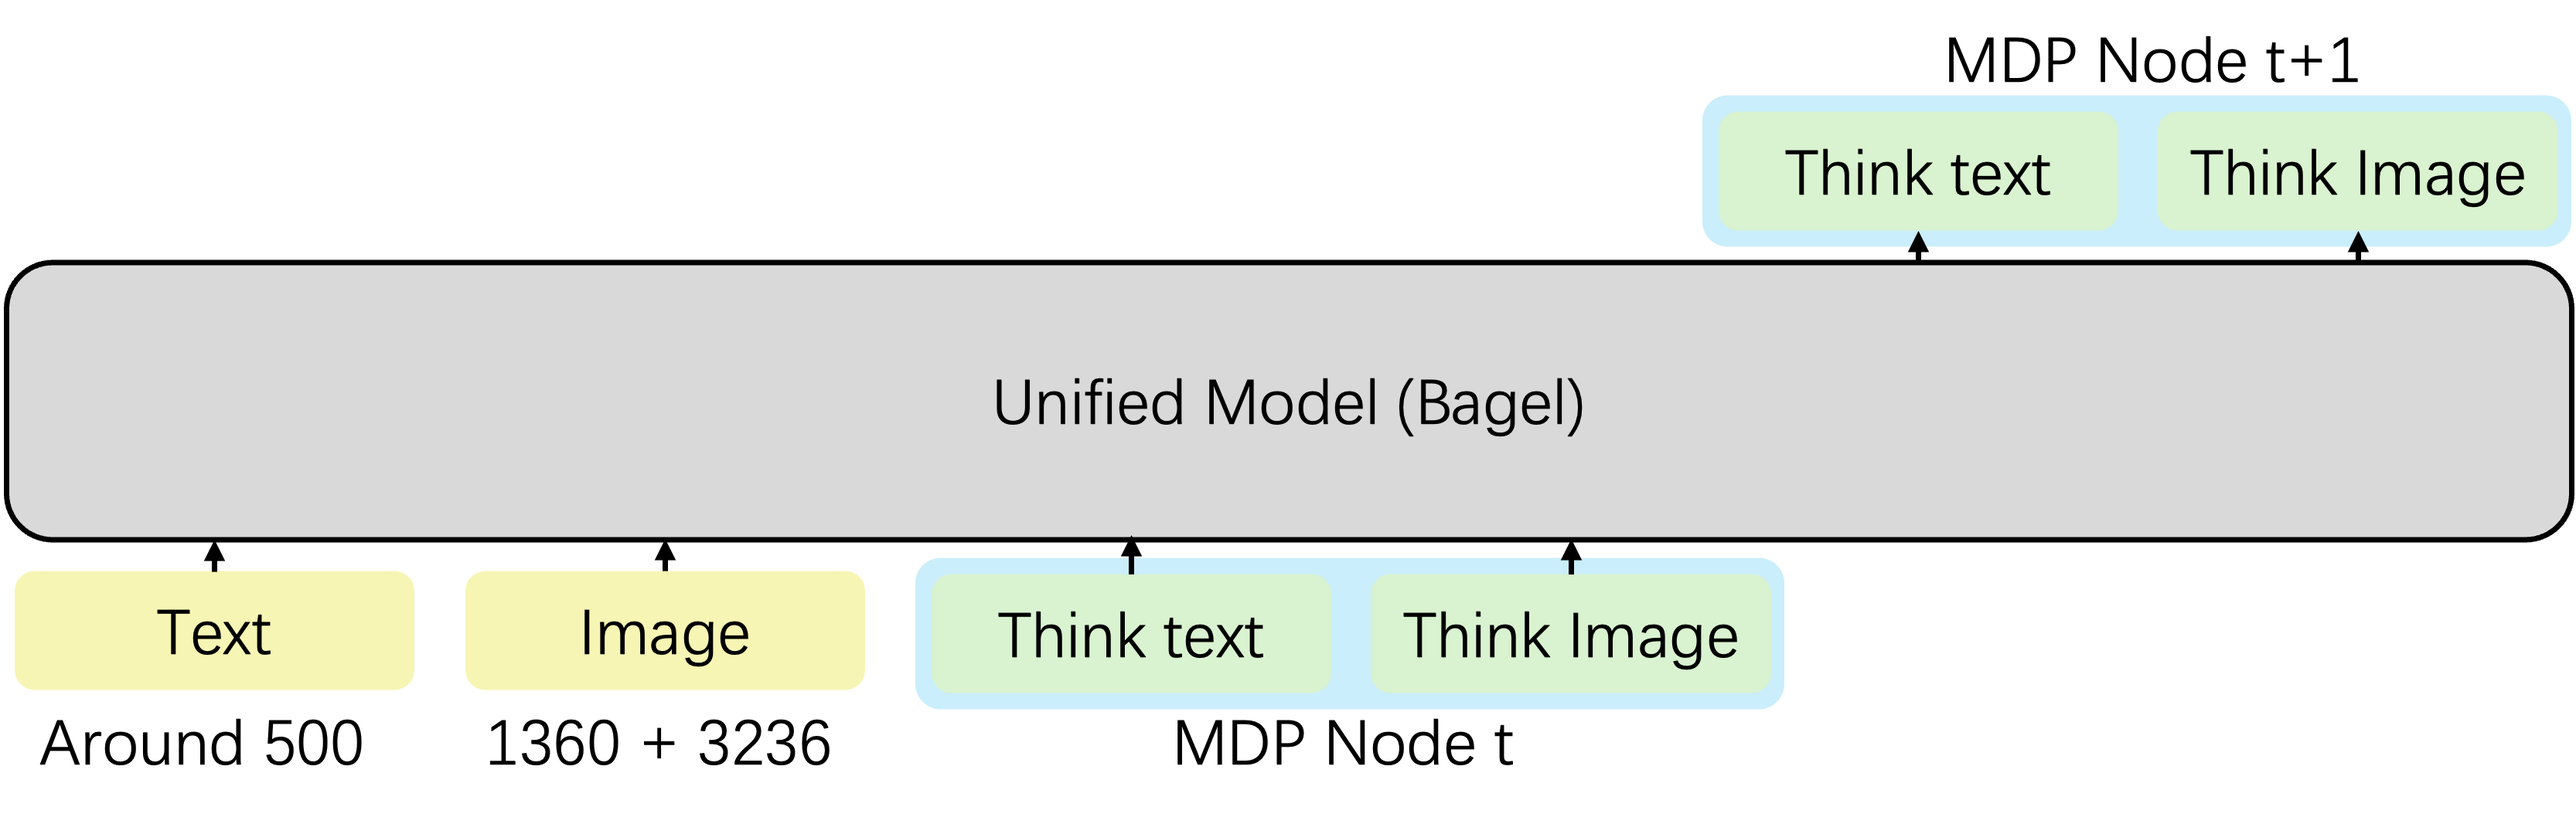
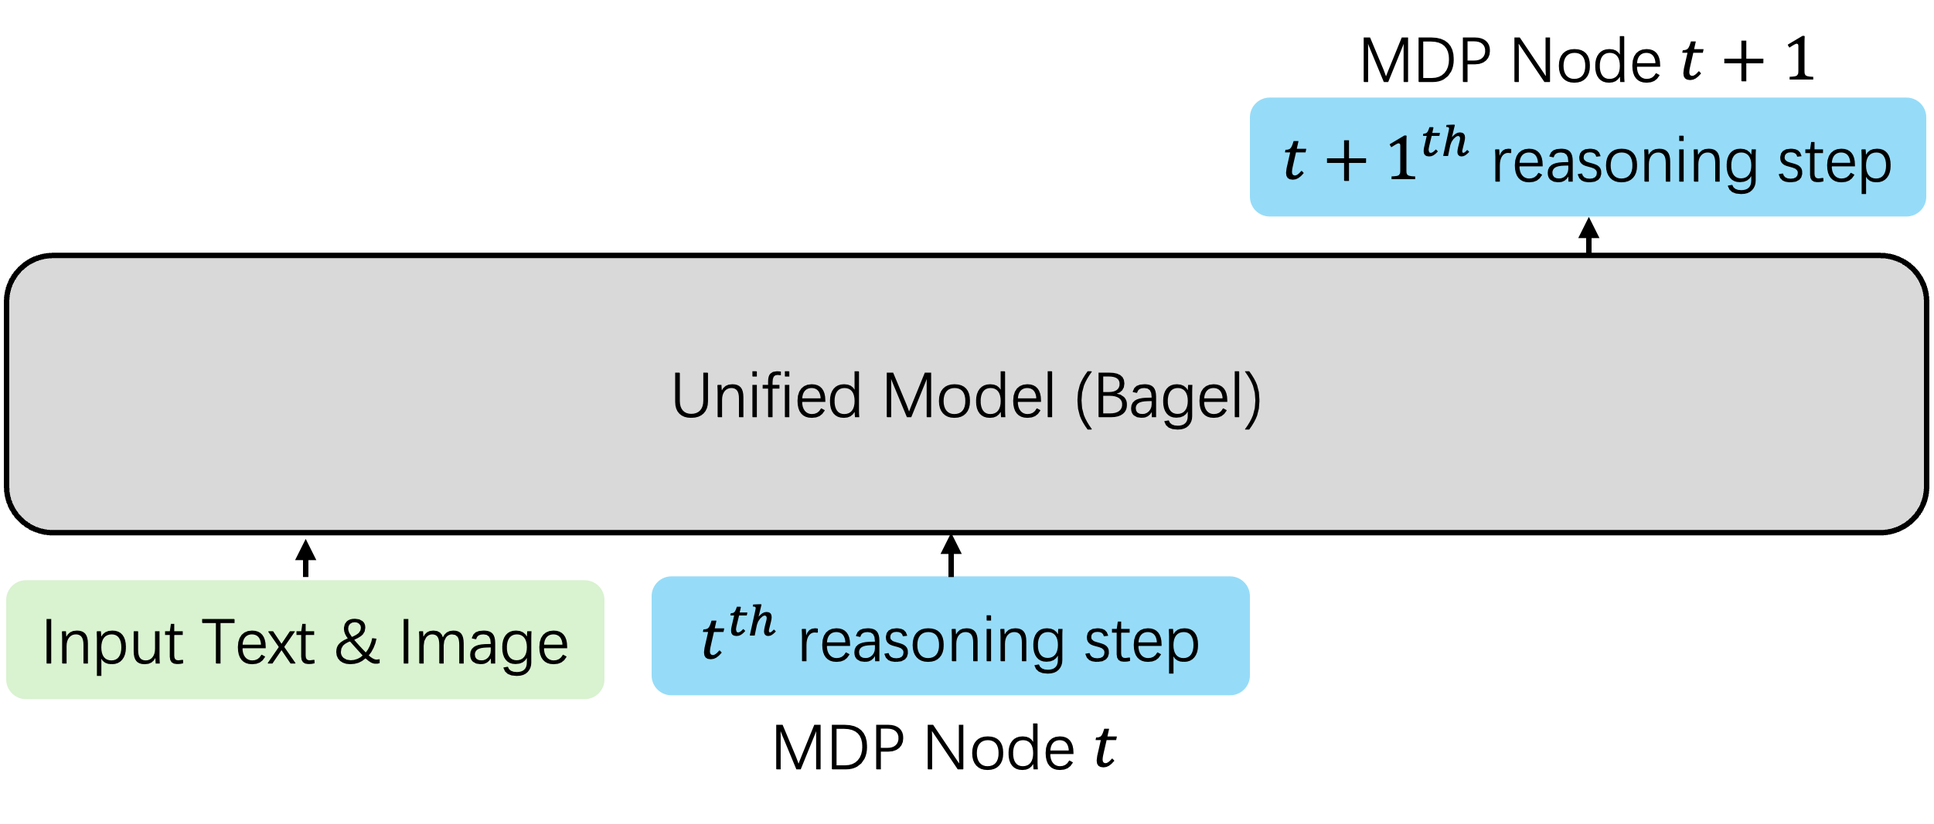
update techical report

Changed region(s): [[0.0, 0.3431, 1.0, 0.9357], [0.0, 0.0312, 1.0, 0.3431], [0.3429, 0.4367, 0.6547, 0.5302]]

diff --git a/technical_report.md b/technical_report.md
@@ -25,17 +25,18 @@ The BATI reasoning pipeline consists of the following stages:
 
 ## Key Insight
 
-A major challenge in UniCoT learning is the increased complexity when visual reasoning is involved. 
-Each reasoning step requires generating a reasoning text and a corresponding image. Producing a high-quality image via VAE consumes ~3,450 tokens, and an additional ~3,450 tokens are needed to generate a ViT-based representation for understanding, totaling ~6,900 tokens per step as shown below. 
-This far exceeds the 512–1,024 tokens typical in text-only reasoning, making training and inference significantly more resource-intensive. 
-As the reasoning chain grows with multiple image-text pairs, the model struggles to converge and generalize effectively, limiting its performance on multimodal tasks.
+A major challenge in UniCoT learning is the heightened complexity introduced by visual reasoning.
+Each reasoning step involves not only generating explanatory text but also synthesizing a corresponding image. 
+Producing a high-quality image via VAE consumes approximately 4,096 tokens, with an additional 1,369 tokens required for ViT-based representation, totaling nearly 6,000 tokens per step. 
+This is a significant increase compared to the 512–1,024 tokens typically needed for text-only reasoning, substantially raising the cost of both training and inference. 
+Consequently, when the reasoning chain grows with multiple image-text pairs, the model struggles to converge and generalize effectively, limiting its performance on multimodal tasks.
 
 <p align="center">
   <img src="assets/motivation.png" width="800"/>
 </p>
 
 To mitigate the complexity introduced by long multimodal reasoning chains, we reformulate the UniCoT process as a Markov Decision Process (MDP), where each step depends solely on the current state. 
-Concretely, we model each reasoning step, comprising a textual and visual component, as a discrete MDP node, generated based only on the preceding step and the task instruction. 
+Concretely, we model each reasoning step as a discrete MDP node, which only depends on the preceding step and the task instruction. 
 This formulation enables the model to focus on learning local transition dynamics between adjacent nodes, rather than capturing dependencies across the entire reasoning chain as shown below. 
 Such a design choice significantly reduces computational overhead and improves training efficiency.
 <p align="center">
